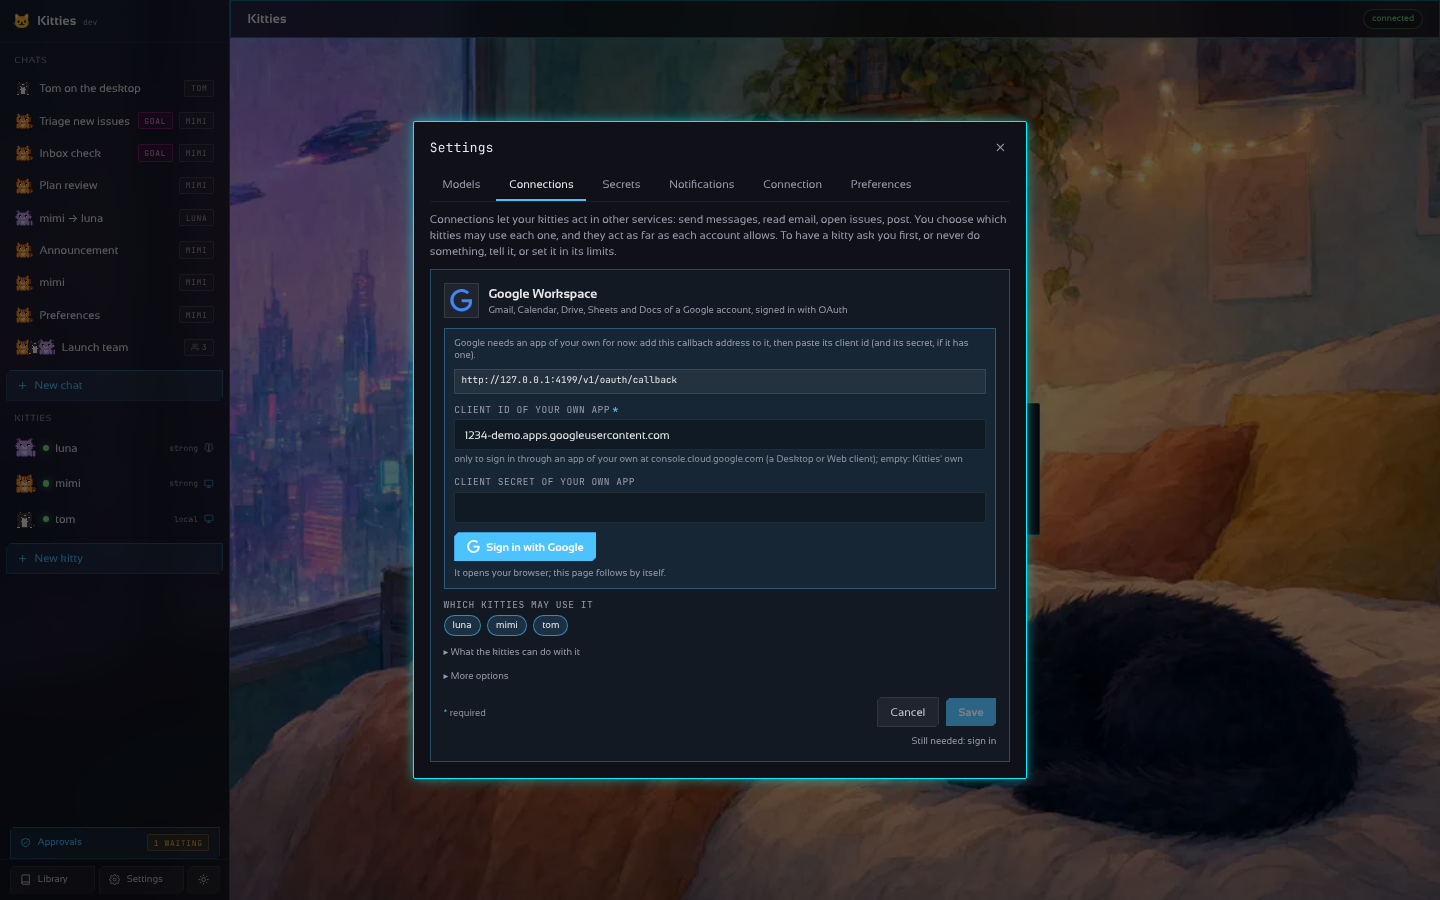
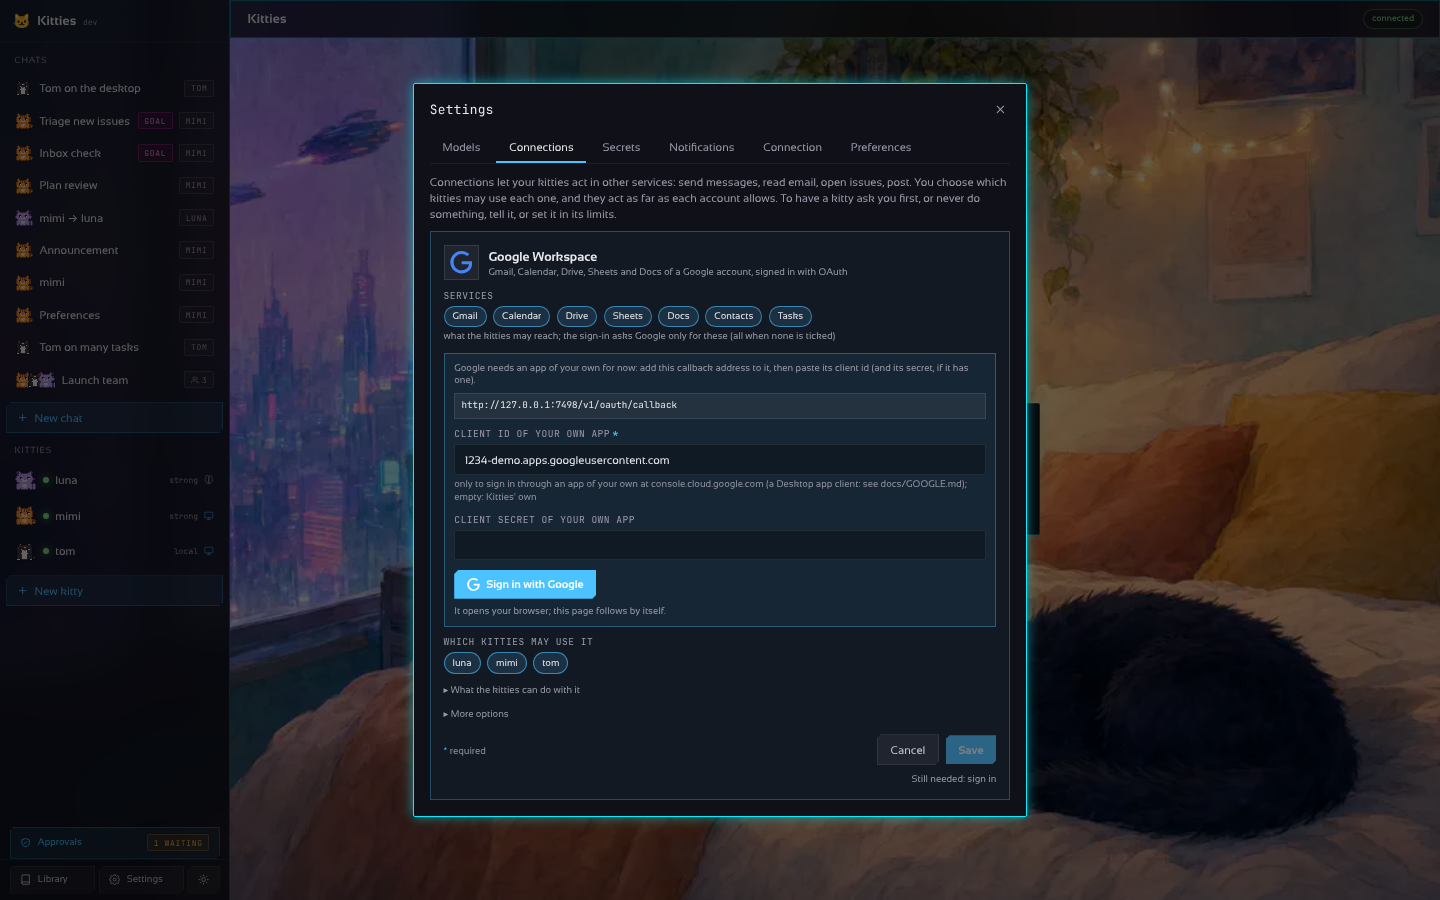
docs(google): step-by-step OAuth client for personal accounts (EN + ES)
Claude-Session: https://claude.ai/code/session_017Z7sUavEBMYaTexhmNu91u

diff --git a/docs/GOOGLE.es.md b/docs/GOOGLE.es.md
@@ -1,0 +1,98 @@
+# Cuentas de Google
+
+La conexión **Google Workspace** inicia sesión en una cuenta de Google con OAuth (código de
+autorización con PKCE): un clic en **Ajustes → Conexiones**, una ventana del navegador para elegir
+la cuenta y autorizar, y el refresh token queda en los ajustes del gateway. Funciona con cuentas
+personales `@gmail.com` y de Workspace. En inglés: [GOOGLE.md](GOOGLE.md).
+
+Una release sin app de Google incluida pide una app tuya: un cliente OAuth gratuito en un proyecto
+tuyo de Google Cloud, que se crea una sola vez en unos cinco minutos.
+
+## 1. Crear el cliente OAuth (una vez)
+
+1. Abre [console.cloud.google.com](https://console.cloud.google.com/) con tu cuenta y crea un
+   proyecto (selector de proyectos → **Proyecto nuevo**, por ejemplo "Kitties").
+2. **APIs y servicios → Biblioteca**: habilita las APIs de los servicios que vayas a marcar:
+   Gmail API, Google Calendar API, Google Drive API, Google Sheets API, Google Docs API,
+   People API (contactos) y Google Tasks API.
+3. **Google Auth Platform → Desarrollo de la marca** (antes *Pantalla de consentimiento*): nombre
+   ("Kitties") y tu correo como soporte y contacto. Guarda.
+4. **Público**: tipo de usuario **Externo**. Mientras la app esté en **Prueba**, agrega en
+   **Usuarios de prueba** cada cuenta con la que vayas a entrar (tus Gmail personales). Ver
+   [Prueba o producción](#prueba-o-producción).
+5. **Clientes → Crear cliente**: tipo de aplicación **App de escritorio**, cualquier nombre. Copia
+   el **ID de cliente** y el **Secreto del cliente**.
+
+Un cliente de escritorio acepta cualquier dirección `http://127.0.0.1:<puerto>`, así que no hay que
+registrar ninguna redirección: Kitties envía `http://127.0.0.1:<puerto del gateway>/v1/oauth/callback`.
+
+## 2. Iniciar sesión desde Kitties
+
+1. **Ajustes → Conexiones → Agregar → Google Workspace**.
+2. **Servicios**: desmarca lo que los kitties no deban usar. Kitties solo pide a Google esos
+   permisos (tabla de abajo).
+3. Pega el **ID de cliente** y el **Secreto** del paso 1.
+4. **Iniciar sesión con Google**: se abre el selector de cuentas de Google. Elige la cuenta,
+   autoriza y la página dice *Connected*. La conexión muestra el correo de la cuenta.
+
+### Varias cuentas
+
+Cada conexión es una cuenta. Para otra, agrega otra conexión **Google Workspace** (por ejemplo
+`google-trabajo`) e inicia sesión: el selector te deja elegir la otra cuenta. Cada kitty usa las
+conexiones que marques en *Qué kitties pueden usarla*. Volver a iniciar sesión en una conexión
+sugiere su propia cuenta (`login_hint`).
+
+### Una app para todas las conexiones
+
+En vez de pegar el cliente en cada conexión, ponlo una vez en el gateway:
+`KITTIES_GOOGLE_CLIENT_ID` y `KITTIES_GOOGLE_CLIENT_SECRET`. También puede ir en el build:
+`make OAUTH_APPS="google=<client id>:<client secret>" dist` (la release lee el secreto
+`KITTIES_OAUTH_APPS` del repositorio).
+
+## Permisos (scopes)
+
+Siempre `openid email` (para mostrar qué cuenta entró) y, por cada servicio marcado, el permiso
+más estrecho que necesitan sus acciones:
+
+| Servicio | Scope | Permite |
+| --- | --- | --- |
+| Gmail | `gmail.readonly`, `gmail.send` | leer y buscar correo, enviar (no borrar) |
+| Calendar | `calendar.events` | listar y crear eventos |
+| Drive | `drive.file` | solo los archivos que crea Kitties |
+| Sheets | `spreadsheets` | agregar filas a una hoja que indiques |
+| Docs | `documents` | crear documentos |
+| Contacts | `contacts` | buscar y agregar contactos |
+| Tasks | `tasks` | listar, agregar y completar tareas |
+
+Si en la pantalla de Google desmarcas un permiso, la conexión se queda solo con los servicios
+autorizados.
+
+## Prueba o producción
+
+- **Prueba**: solo entran los usuarios de prueba y Google cierra su sesión a los **7 días**.
+  Kitties dice entonces *the sign-in expired or was revoked* y la conexión pide volver a entrar.
+- **En producción** (Público → **Publicar app**): sin límite de 7 días. Sin verificación, Google
+  avisa *Google no verificó esta app*; para tu propia app y cuenta elige **Configuración avanzada →
+  Ir a Kitties (no seguro)**. Las apps sin verificar admiten hasta 100 usuarios, suficiente para uso
+  personal. La verificación solo hace falta para ofrecer la app a otras personas.
+
+## Gateway en otra máquina
+
+Google solo devuelve el navegador a `127.0.0.1` (clientes de escritorio) o a una dirección `https`
+(clientes web). Kitties rechaza, antes de abrir Google, un inicio de sesión que volvería a una IP
+de la LAN o a un nombre en `http` como `http://192.168.1.20:7488`. Opciones:
+
+- inicia sesión desde el equipo donde corre el gateway (la app de escritorio lo hace así), o
+- dale al gateway una dirección pública `https` (`KITTIES_PUBLIC_URL`, ver [DEPLOY.md](DEPLOY.md)),
+  crea un cliente **Aplicación web** y agrega `https://<tu dirección>/v1/oauth/callback` en
+  *URIs de redireccionamiento autorizados*.
+
+## Si falla
+
+| Google dice | Solución |
+| --- | --- |
+| `access_denied` / *no completó el proceso de verificación* | la app está en Prueba y la cuenta no es usuario de prueba: agrégala (paso 1.4) |
+| `redirect_uri_mismatch` | cliente web sin el callback de este gateway: agrega la dirección que muestra Ajustes, o usa un cliente de escritorio |
+| `invalid_client` | ID o secreto incorrectos, o el cliente se borró |
+| 403 *… API has not been used in project …* | habilita esa API en el proyecto (paso 1.2) |
+| *the sign-in expired or was revoked* | pasaron los 7 días de Prueba, o se quitó el acceso en myaccount.google.com/permissions: vuelve a entrar |

diff --git a/docs/GOOGLE.md b/docs/GOOGLE.md
@@ -1,0 +1,101 @@
+# Google accounts
+
+The **Google Workspace** connection signs a Google account in with OAuth (authorization code with
+PKCE): one click in **Settings → Connections**, a browser window to pick the account and allow it,
+and the refresh token goes to the gateway's settings. It works with personal `@gmail.com`
+accounts as well as Workspace ones. In Spanish: [GOOGLE.es.md](GOOGLE.es.md).
+
+A release without a Google app built in asks for an app of yours: a free OAuth client in a Google
+Cloud project of yours, made once, in about five minutes.
+
+## 1. Make the OAuth client (once)
+
+1. Open [console.cloud.google.com](https://console.cloud.google.com/) with your Google account and
+   create a project (top bar → project picker → **New project**, for example "Kitties").
+2. **APIs & Services → Library**: enable the APIs of the services you will tick:
+   Gmail API, Google Calendar API, Google Drive API, Google Sheets API, Google Docs API,
+   People API (contacts) and Google Tasks API.
+3. **Google Auth Platform → Branding** (formerly *OAuth consent screen*): app name ("Kitties"),
+   your email as support and developer contact. Save.
+4. **Audience**: user type **External**. While the app is in **Testing**, add every account you
+   will sign in with under **Test users** (your personal Gmail accounts). See
+   [Testing or production](#testing-or-production) below.
+5. **Clients → Create client**: application type **Desktop app**, any name. Copy the **Client ID**
+   and the **Client secret**.
+
+A Desktop app client takes any `http://127.0.0.1:<port>` address back, so there is no redirect
+address to register: Kitties sends `http://127.0.0.1:<gateway port>/v1/oauth/callback`.
+
+## 2. Sign in from Kitties
+
+1. **Settings → Connections → Add → Google Workspace**.
+2. **Services**: untick what the kitties should not reach. Kitties asks Google only for those
+   scopes (the table below).
+3. Paste the **Client ID** and **Client secret** of step 1 (the secret of a Desktop client is not
+   really secret, but Google asks for it).
+4. **Sign in with Google**: the browser opens Google's account chooser. Pick the account, allow
+   it, and the page says *Connected*. The connection shows the account's email.
+
+### More than one account
+
+Each connection is one account. For another one, add another **Google Workspace** connection
+(name it, for example, `google-work`) and sign in again: the chooser lets you pick the other
+account. Each kitty uses the connections you tick for it under *Which kitties may use it*.
+Signing in again on a connection suggests its own account (`login_hint`).
+
+### One app for every connection
+
+Instead of pasting the client in each connection, set it once on the gateway:
+`KITTIES_GOOGLE_CLIENT_ID` and `KITTIES_GOOGLE_CLIENT_SECRET`. A build can carry it too:
+`make OAUTH_APPS="google=<client id>:<client secret>" dist` (the release reads the
+`KITTIES_OAUTH_APPS` repository secret).
+
+## Scopes
+
+Kitties always asks `openid email` (to show which account signed in) and, for each service ticked,
+the narrowest scope its actions need:
+
+| Service | Scope | What it allows |
+| --- | --- | --- |
+| Gmail | `gmail.readonly`, `gmail.send` | read and search mail, send mail (no deleting) |
+| Calendar | `calendar.events` | list and add events |
+| Drive | `drive.file` | only the files Kitties creates |
+| Sheets | `spreadsheets` | append rows to a sheet you name |
+| Docs | `documents` | create documents |
+| Contacts | `contacts` | find and add contacts |
+| Tasks | `tasks` | list, add and complete tasks |
+
+Google's consent page lets you untick a permission; the connection then keeps only the services
+that were allowed.
+
+## Testing or production
+
+- **Testing**: only the test users can sign in, and Google ends their sign-ins after **7 days**.
+  Kitties then says *the sign-in expired or was revoked* and the connection asks you to sign in
+  again.
+- **In production** (Audience → **Publish app**): no 7-day limit. Without Google's verification
+  the consent page warns *Google hasn't verified this app*; for your own app and account choose
+  **Advanced → Go to Kitties (unsafe)**. Unverified apps are limited to 100 users, which is
+  plenty for personal use. Verification (and, for Gmail reading, Google's security assessment) is
+  only needed to offer the app to other people.
+
+## A gateway on another machine
+
+Google only sends the browser back to `127.0.0.1` (Desktop clients) or to an `https` address
+(Web clients). Kitties refuses, before opening Google, a sign-in that would come back to a LAN
+address or a plain-`http` name such as `http://192.168.1.20:7488`. Either:
+
+- sign in from the computer that runs the gateway (the desktop app does this), or
+- give the gateway a public `https` address (`KITTIES_PUBLIC_URL`, see [DEPLOY.md](DEPLOY.md)),
+  create a **Web application** client instead, and add
+  `https://<your address>/v1/oauth/callback` under *Authorized redirect URIs*.
+
+## When it fails
+
+| Google says | Fix |
+| --- | --- |
+| `access_denied` / *has not completed the Google verification process* | the app is in Testing and the account is not a test user: add it (step 1.4) |
+| `redirect_uri_mismatch` | a Web client without this gateway's callback: add the address Settings shows, or use a Desktop client |
+| `invalid_client` | the client id or secret is wrong, or the client was deleted |
+| 403 *… API has not been used in project …* | enable that API in the project (step 1.2) |
+| *the sign-in expired or was revoked* | Testing's 7 days passed, or access was removed at myaccount.google.com/permissions: sign in again |

diff --git a/docs/CONFIGURATION.md b/docs/CONFIGURATION.md
@@ -136,6 +136,11 @@ means the dashboard has another address (for example `http://127.0.0.1:8888/call
 Spotify's own docs): add the one from Settings. Behind a proxy or Docker, set `gateway.public_url` (and
 `trust_proxy`) so the address is the one you reach from the browser.
 
+**Google** sends the browser back to `127.0.0.1` (so a *Desktop app* client needs no redirect
+registered) or to an `https` address only, asks only for the scopes of the services ticked in the
+connection, shows the account's email, and lets each connection be another account. Step by step:
+[GOOGLE.md](GOOGLE.md).
+
 Signing in also fills what you would otherwise look up: your Facebook Page and its token (one
 that does not expire), the Instagram account linked to it, your LinkedIn author URN, your X user
 id, your Jira site. Telegram, WhatsApp, email, Stripe, Discord and the webhooks keep their keys:

diff --git a/docs/README.md b/docs/README.md
@@ -6,6 +6,7 @@
 | [APPS.md](APPS.md) | The desktop app (Wails) and the Android app |
 | [DEPLOY.md](DEPLOY.md) | Run the gateway on a server: Compose with Caddy, systemd, nginx, backups |
 | [CONFIGURATION.md](CONFIGURATION.md) | The YAML file, the connector catalogue, signing in, subscriptions instead of keys |
+| [GOOGLE.md](GOOGLE.md) · [es](GOOGLE.es.md) | Connect personal Google accounts: the OAuth client, scopes, several accounts |
 | [AUTONOMY.md](AUTONOMY.md) | Goals, events, limits, recovery, memory, approvals, notifications |
 | [DESKTOP.md](DESKTOP.md) · [es](DESKTOP.es.md) | How a kitty sees and uses its desktop |
 | [KITTY-DESKTOP.md](KITTY-DESKTOP.md) | What the desktop is: Lumen shelf, Numix theme, Lucide icons, what is installed |
